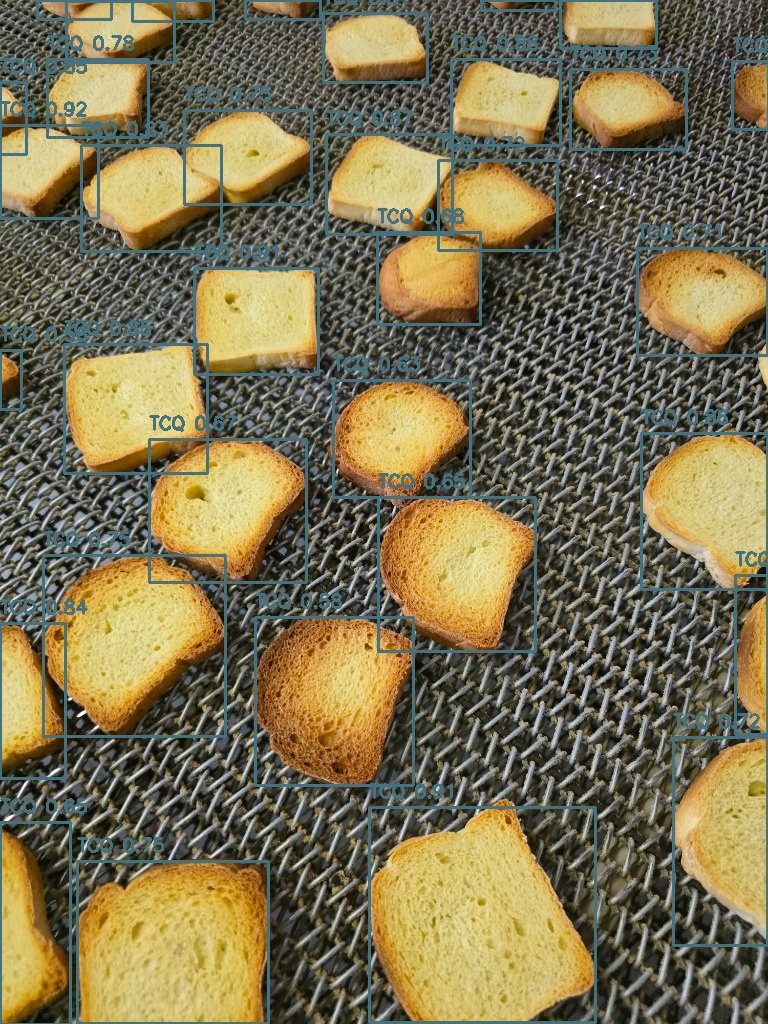
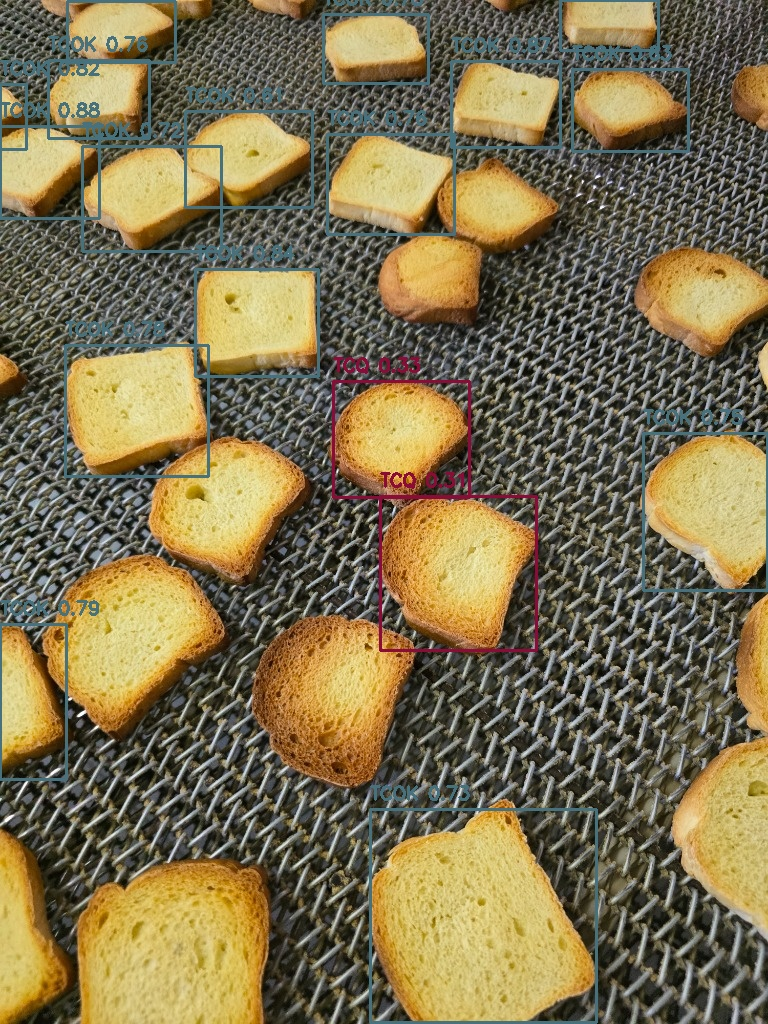
[feature] - cambio del track

diff --git a/backend/use_cases/toast_tracker.py b/backend/use_cases/toast_tracker.py
@@ -41,6 +41,14 @@ class ToastTracker:
             return 0.0
         return interArea / unionArea
 
+    def _calculate_distance(self, boxA: Tuple[int, int, int, int], boxB: Tuple[int, int, int, int]) -> float:
+        """Calcula la distancia euclidiana entre los centros de dos cajas."""
+        cA_x = boxA[0] + boxA[2] / 2
+        cA_y = boxA[1] + boxA[3] / 2
+        cB_x = boxB[0] + boxB[2] / 2
+        cB_y = boxB[1] + boxB[3] / 2
+        return ((cA_x - cB_x) ** 2 + (cA_y - cB_y) ** 2) ** 0.5
+
     def update(self, detections) -> Tuple[List[TrackedToast], List[TrackedToast]]:
         """
         Actualiza el tracker con las nuevas detecciones del fotograma.
@@ -51,23 +59,30 @@ class ToastTracker:
         new_detections = list(detections)
         tracked_ids = list(self.tracked_toasts.keys())
 
-        # 1. Calcular matriz de IoU entre detecciones del fotograma y tostadas bajo seguimiento
+        # 1. Calcular coincidencia entre las tostadas trackeadas y las nuevas detecciones
         matches = []
         for t_id in tracked_ids:
             tracked_toast = self.tracked_toasts[t_id]
             for det_idx, det in enumerate(new_detections):
                 iou = self._calculate_iou(tracked_toast.bbox, det.bbox)
                 if iou >= self.iou_threshold:
-                    matches.append((iou, t_id, det_idx))
+                    # Prioridad alta para coincidencia por IoU
+                    matches.append((1.0 + iou, t_id, det_idx))
+                else:
+                    # Fallback a distancia de centros si no hay suficiente overlap
+                    dist = self._calculate_distance(tracked_toast.bbox, det.bbox)
+                    if dist < 150.0:  # Máxima distancia permitida de 150px
+                        score = 1.0 - (dist / 150.0)
+                        matches.append((score, t_id, det_idx))
 
-        # Ordenar coincidencias por IoU de manera descendente
+        # Ordenar coincidencias por score de manera descendente
         matches.sort(key=lambda x: x[0], reverse=True)
 
         matched_track_ids = set()
         matched_det_indices = set()
 
         # 2. Emparejamiento codicioso (Greedy Matching)
-        for iou, t_id, det_idx in matches:
+        for score, t_id, det_idx in matches:
             if t_id in matched_track_ids or det_idx in matched_det_indices:
                 continue
 
@@ -86,18 +101,17 @@ class ToastTracker:
             
             if tracked_toast.state == "burnt":
                 # La tostada quemada no puede des-quemarse
-                tracked_toast.label = "Tostada Quemada"
+                tracked_toast.label = "TCQ"
             else:
                 if is_burnt_detection:
                     tracked_toast.consecutive_burnt_frames += 1
-                else:
-                    # Reducir o reiniciar contador de quemado si se detecta ok
-                    tracked_toast.consecutive_burnt_frames = max(0, tracked_toast.consecutive_burnt_frames - 1)
 
-                # Transición a quemado si se alcanza el umbral de confirmación
-                if tracked_toast.consecutive_burnt_frames >= self.min_burnt_confirm_frames:
+                # Transición a quemado si se alcanza el umbral de confirmación (3 frames en total)
+                if tracked_toast.consecutive_burnt_frames >= 3:
                     tracked_toast.state = "burnt"
-                    tracked_toast.label = "Tostada Quemada"
+                    tracked_toast.label = "TCQ"
+                else:
+                    tracked_toast.label = "TCOK"
 
         # 3. Manejo de tostadas bajo seguimiento no emparejadas (perdidas en este fotograma)
         for t_id in tracked_ids:
@@ -118,10 +132,12 @@ class ToastTracker:
                 if is_burnt_detection and self.min_burnt_confirm_frames <= 1:
                     initial_state = "burnt"
 
+                initial_label = "TCQ" if initial_state == "burnt" else "TCOK"
+
                 new_toast = TrackedToast(
                     id=self.next_id,
                     bbox=det.bbox,
-                    label=det.label,
+                    label=initial_label,
                     confidence=det.confidence,
                     state=initial_state,
                     consecutive_burnt_frames=consecutive_burnt
@@ -143,8 +159,8 @@ class ToastTracker:
         newly_burnt_toasts = []
 
         for t_id, tracked_toast in self.tracked_toasts.items():
-            # Solo consideramos "visible" si no lleva demasiados fotogramas perdida
-            if tracked_toast.frames_since_seen == 0:
+            # Permitir mostrar la tostada incluso si se perdió por hasta 3 fotogramas (evita parpadeo de desaparición)
+            if tracked_toast.frames_since_seen <= 3:
                 active_toasts.append(tracked_toast)
                 
             # Identificar si acaba de pasar a quemado y requiere disparar la alarma

diff --git a/backend/infrastructure/ai/yolo_detector.py b/backend/infrastructure/ai/yolo_detector.py
@@ -13,7 +13,7 @@ except ImportError:
     HAILO_AVAILABLE = False
 
 class YoloDetector(IImageDetector):
-    def __init__(self, model_path: str = None, names_path: str = None, confidence_threshold: float = 0.25, nms_threshold: float = 0.4):
+    def __init__(self, model_path: str = None, names_path: str = None, confidence_threshold: float = 0.60, nms_threshold: float = 0.4):
         # Default paths relative to workspace root
         base_dir = os.path.dirname(os.path.dirname(os.path.dirname(os.path.dirname(os.path.abspath(__file__)))))
         
@@ -45,6 +45,14 @@ class YoloDetector(IImageDetector):
         self.names_path = names_path
         self.confidence_threshold = confidence_threshold
         self.nms_threshold = nms_threshold
+        
+        # Umbrales específicos por clase para optimizar detección
+        self.class_thresholds = {
+            "tcq": 0.30,
+            "tostada quemada": 0.30,
+            "tcok": 0.60,
+            "tostadas ok": 0.60
+        }
         
         self.image_size = 640
         
@@ -136,14 +144,16 @@ class YoloDetector(IImageDetector):
                 class_detections = detections[cid]
                 for det in class_detections:
                     ymin, xmin, ymax, xmax, confidence = det
-                    if confidence >= self.confidence_threshold:
+                    label = self.names[cid] if cid < len(self.names) else f"class_{cid}"
+                    thresh = self.class_thresholds.get(label.lower(), self.confidence_threshold)
+                    
+                    if confidence >= thresh:
                         # Convertir coordenadas normalizadas a píxeles
                         left = int(xmin * w_img)
                         top = int(ymin * h_img)
                         width = int((xmax - xmin) * w_img)
                         height = int((ymax - ymin) * h_img)
                         
-                        label = self.names[cid] if cid < len(self.names) else f"class_{cid}"
                         results.append(
                             DetectionResult(
                                 label=label,
@@ -175,7 +185,10 @@ class YoloDetector(IImageDetector):
                 class_id = max_idx[1]
                 confidence = classes_score[class_id]
 
-                if confidence > self.confidence_threshold:
+                label = self.names[class_id] if class_id < len(self.names) else f"class_{class_id}"
+                thresh = self.class_thresholds.get(label.lower(), self.confidence_threshold)
+
+                if confidence > thresh:
                     confs.append(float(confidence))
                     class_ids.append(int(class_id))
                     
@@ -188,7 +201,8 @@ class YoloDetector(IImageDetector):
                     boxes.append([left, top, width, height])
 
             # Apply NMS
-            indexes = cv2.dnn.NMSBoxes(boxes, confs, self.confidence_threshold, self.nms_threshold)
+            min_thresh = min(self.class_thresholds.values()) if self.class_thresholds else self.confidence_threshold
+            indexes = cv2.dnn.NMSBoxes(boxes, confs, min_thresh, self.nms_threshold)
             
             results = []
             # Support both OpenCV NMS formats (sometimes a flat list, sometimes nested list)

diff --git a/frontend/main/main.py b/frontend/main/main.py
@@ -310,6 +310,12 @@ class YOLODetectionThread(QThread):
         if not cap.isOpened():
             print(f"No se pudo abrir la fuente de video: {cv_source}")
             return
+            
+        # Determinar FPS del video original o usar 30 por defecto
+        fps = cap.get(cv2.CAP_PROP_FPS)
+        if fps <= 0 or fps > 100:
+            fps = 30.0
+        self.frame_time = 1.0 / fps
   
         # Generar colores de clases de forma determinista
         try:
@@ -322,6 +328,7 @@ class YOLODetectionThread(QThread):
         self.last_toast_seen_time = time.time()
 
         while self.running:
+            start_time = time.time()
             ret, frame = cap.read()
             if not ret:
                 break
@@ -433,6 +440,12 @@ class YOLODetectionThread(QThread):
             qt_image = QImage(rgb_image.data, w, h, bytes_per_line, QImage.Format_RGB888)
             
             self.change_pixmap_signal.emit(qt_image)
+            
+            # Limitar la velocidad de reproducción de video a sus FPS naturales
+            elapsed = time.time() - start_time
+            sleep_time = self.frame_time - elapsed
+            if sleep_time > 0:
+                time.sleep(sleep_time)
 
         cap.release()
         if self.seen_toasts:
